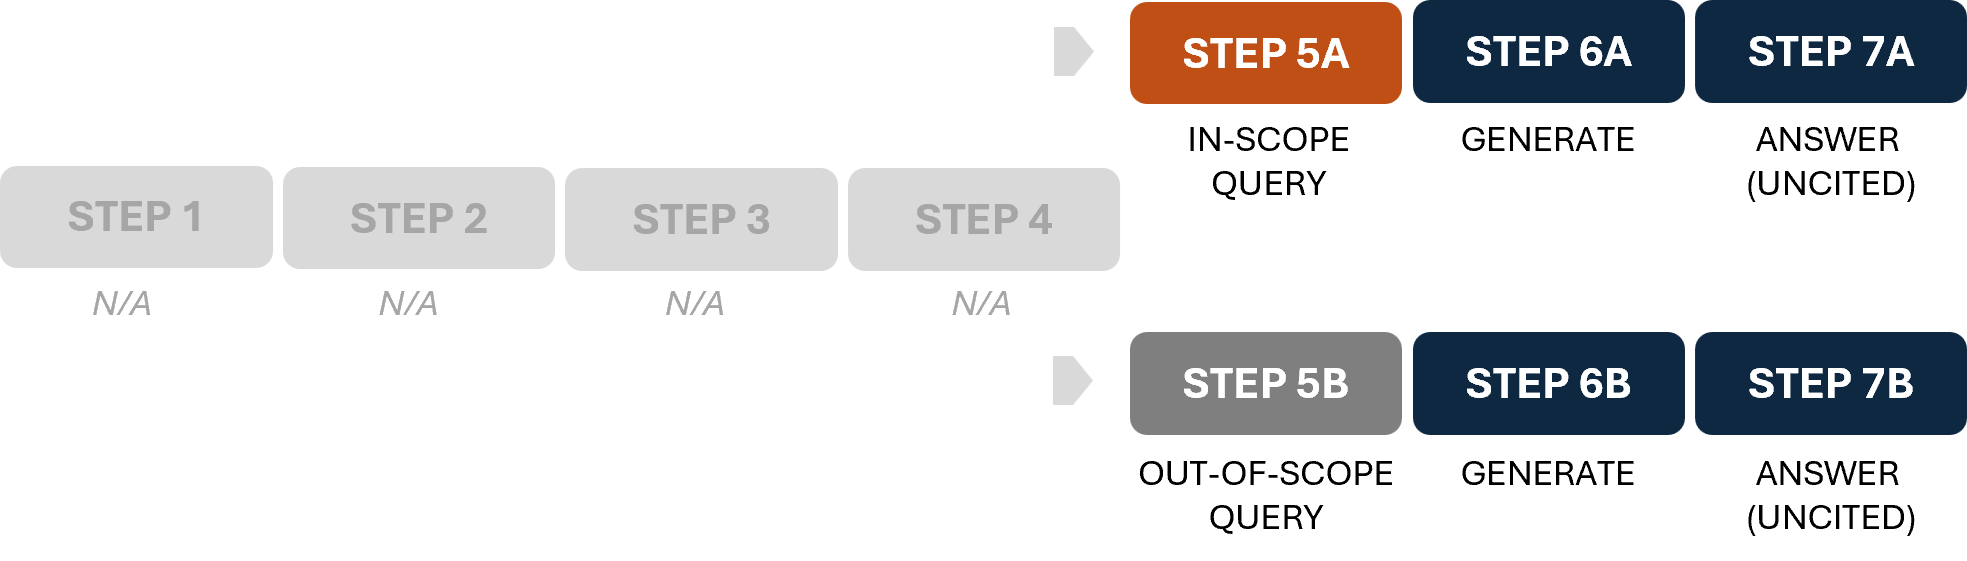
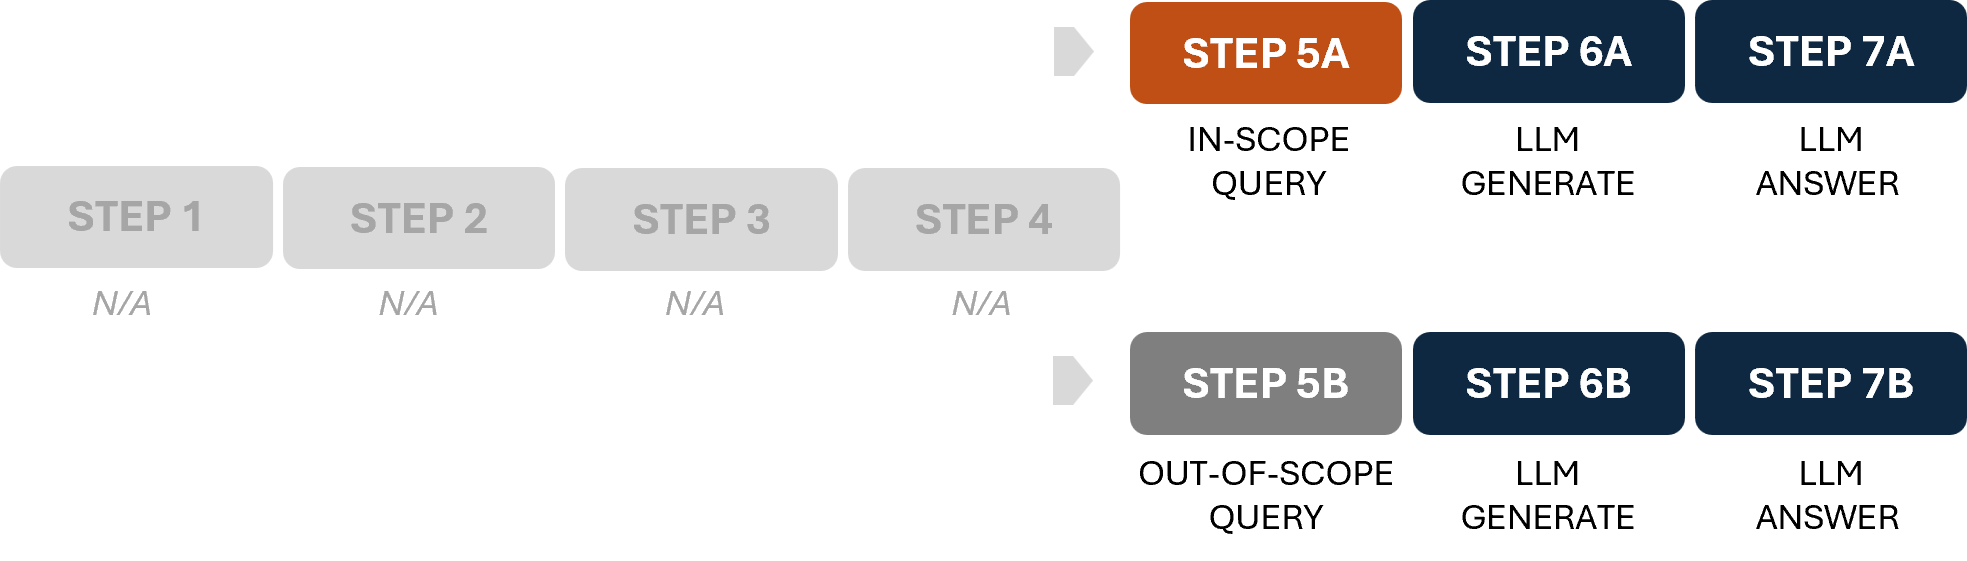
updated image files again, changed wording in Step5A, STep5B user prompts

diff --git a/app.py b/app.py
@@ -508,7 +508,7 @@ st.markdown("<hr class='divider' style='margin:1rem 0 0.75rem'/>", unsafe_allow_
 st.markdown("""<div class="section-label-row">
   <span class="step-badge-q">Step 5a</span>
   <span class="section-label-text-q">In-scope query</span>
-  <span style="font-size:0.68rem; color:#94A3B8; margin-left:0.4rem;">ask a question related to your topic to the LLM</span>
+  <span style="font-size:0.68rem; color:#94A3B8; margin-left:0.4rem;">ask a question to the LLM, it must be related to your topic</span>
 
 </div>""", unsafe_allow_html=True)
 question = st.text_input("question",
@@ -518,7 +518,7 @@ question = st.text_input("question",
 st.markdown("""<div class="section-label-row" style="margin-top:0.5rem;">
   <span class="step-badge-stress">Step 5b</span>
   <span class="section-label-text-stress">Out-of-scope query</span>
-  <span style="font-size:0.68rem; color:#94A3B8; margin-left:0.4rem;">ask a question NOT related to your topic to the LLM</span>
+  <span style="font-size:0.68rem; color:#94A3B8; margin-left:0.4rem;">ask a question to the LLM, it must NOT related to your topic</span>
 </div>""", unsafe_allow_html=True)
 oos_question = st.text_input("oos_question",
                              value="Why are cats afraid of cucumbers?",